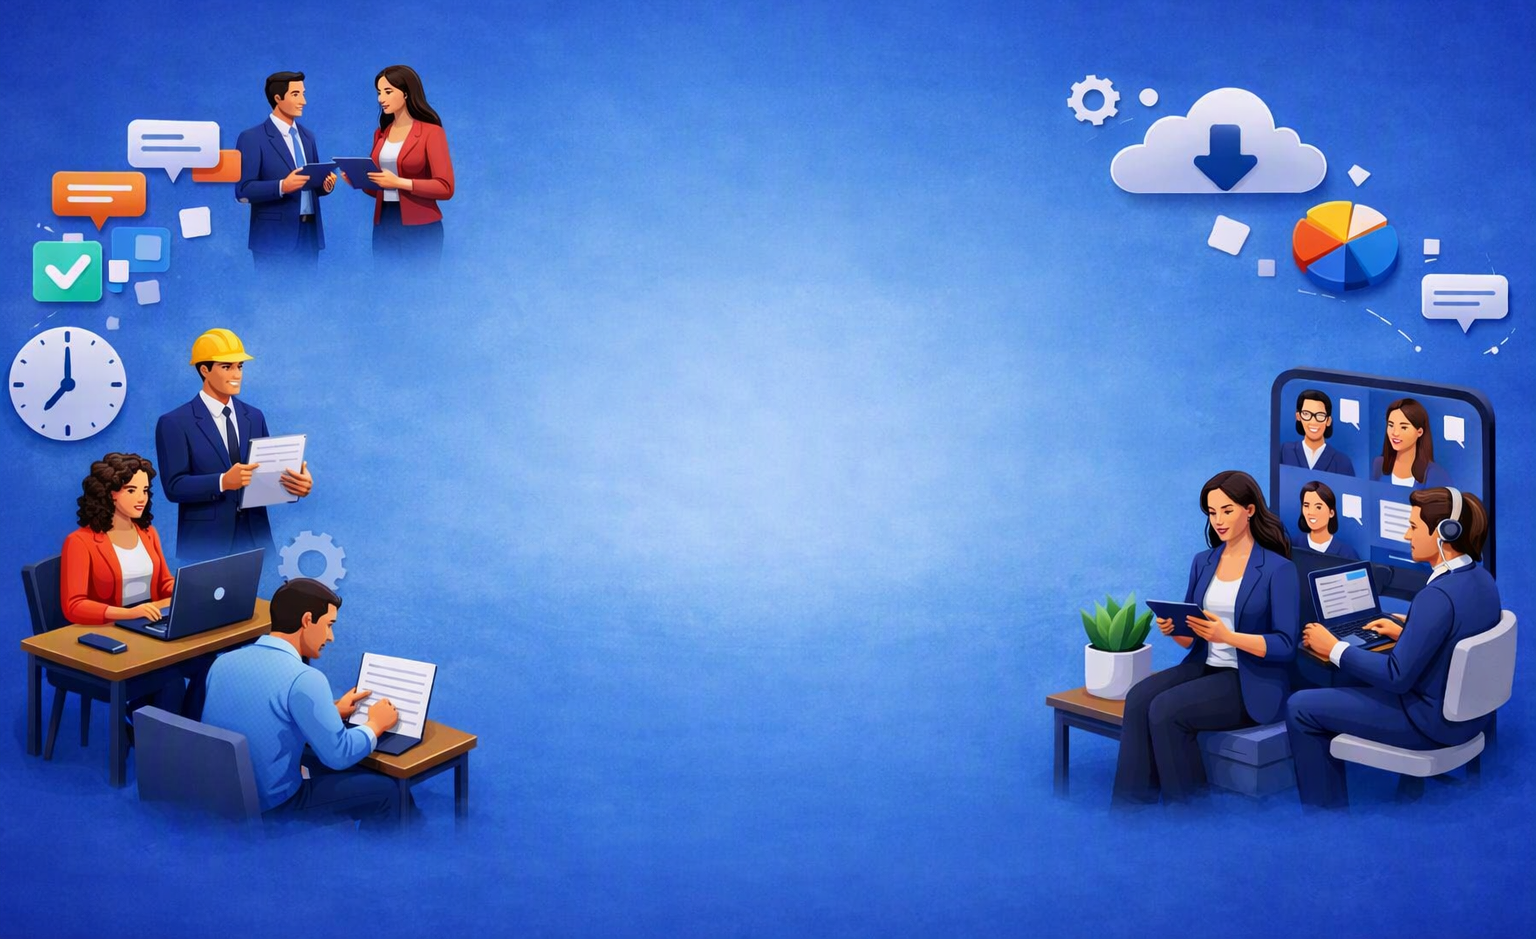
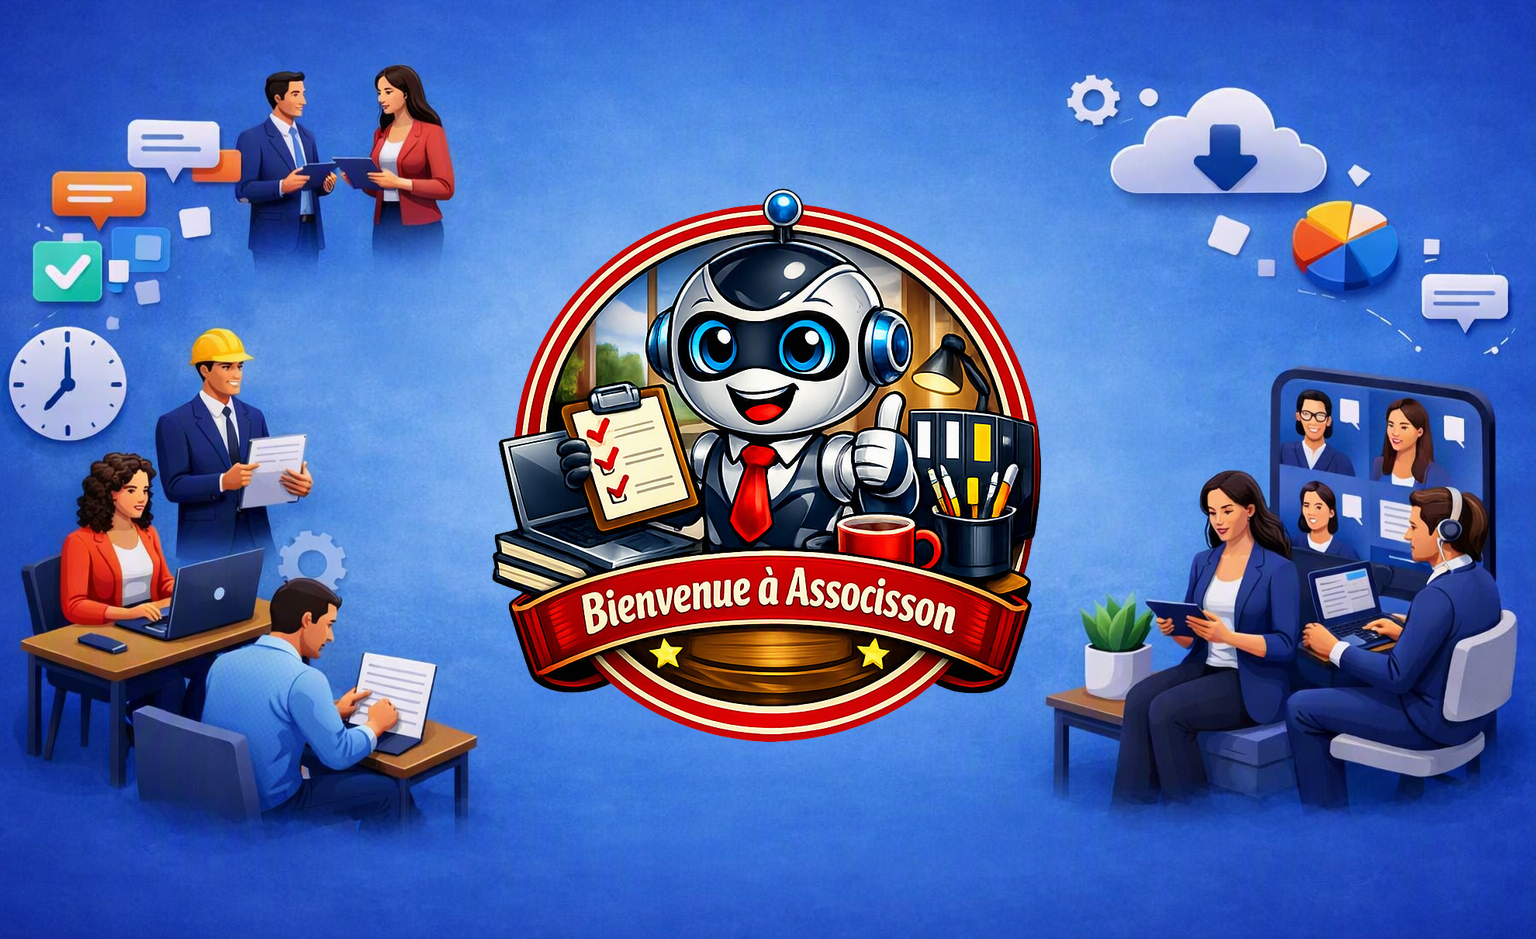
homepage V2 modifier plus simple

Changed region(s): [[0.3125, 0.1853, 0.6875, 0.803]]

diff --git a/frontend/src/pages/HomePage.tsx b/frontend/src/pages/HomePage.tsx
@@ -1,7 +1,7 @@
 import { useEffect, useState } from "react";
 import "../style/pages/HomePage.css";
-import Logo from "../style/img/Logo.png";
 import Logo2 from "../style/img/Logo2.png";
+import Image from "../style/img/image.png";
 
 export function HomePage() {
   const [hidden, setHidden] = useState(true);
@@ -39,19 +39,23 @@ export function HomePage() {
 
       <main>
         <div id="accueil" className="Acceuil">
-          <div className="image">
-            <img src={Logo} alt="Logo" draggable="false"/>
-          </div>
-          <div className="texte">
-            <h3>Une application pour les remplacer toutes.</h3>
-            <br />
-            <p>
-              Faites travailler vos équipes sur une seule plateforme conçue pour gérer tout type de travail.
-            </p>
-          </div>
-          <div className="bouton">
-            <button className="btnC">Connection</button>
-            <button className="btnI">Inscription</button>
+         <div className="texte" style={{ position: "relative" }}>
+            <img
+              src={Image}
+              alt="Image"
+              draggable="false"
+              style={{ width: "100%", display: "block" }}
+            />
+            <div className="message">
+              <h3>Une application pour les remplacer toutes.</h3>
+              <p>
+                Faites travailler vos équipes sur une seule plateforme conçue pour gérer tout type de travail.
+              </p>
+              <div className="bouton">
+                <button className="btnC">Connexion</button>
+                <button className="btnI">Inscription</button>
+              </div>
+            </div>
           </div>
         </div>
       </main>

diff --git a/frontend/src/style/pages/HomePage.css b/frontend/src/style/pages/HomePage.css
@@ -1,5 +1,6 @@
 
 
+
 header {
   position: fixed;
   top: 0;
@@ -22,10 +23,7 @@ header.header-hidden {
   flex-direction: column;
   flex-wrap: wrap;
   align-items: center;
-  background-image: url("../img/image.png");
-  background-size: cover;         
-  background-repeat: no-repeat; 
-    
+  background-color: rgba(0, 28, 155, 0.884);
 }
 
 .logo{
@@ -54,21 +52,54 @@ header.header-hidden {
   font-size: 20 px;
 }
 
-.texte h3 {
-   margin-bottom: 20px;
-   font-size: 30px; /* Taille du texte */
-}
-.texte p {
-   margin-bottom: 20px;
-   font-size: 20px; /* Taille du texte */
-}
-
-
-.image img {
-  width: 448px;
-  height: auto;
+.message {
+  position: absolute;
+  top: 90%;
+  left: 50%;
+  transform: translate(-50%, -50%);
+  text-align: center;
+  color: #fff; /* à ajuster selon le contraste avec ton image */
 }
 
+.message h3 {
+  margin-bottom: 20px;
+  font-size: 30px; /* Taille du texte */
+}
+
+.message p {
+  margin-bottom: 20px;
+  font-size: 20px; /* Taille du texte */
+}
+
+.bouton {
+  display: flex;
+  gap: 12px;
+  justify-content: center;
+}
+
+.btnC,
+.btnI {
+  padding: 10px 20px;
+  border: none;
+  border-radius: 6px;
+  cursor: pointer;
+  font-size: 14px;
+}
+
+.btnC {
+  background: transparent;
+  border: 1px solid #fff;
+  color: #fff;
+}
+
+.btnI {
+  background: #fff;
+  color: #000;
+}
+
+.texte img {
+  width: auto;
+}
 
 .btnI{
   border: 0;
